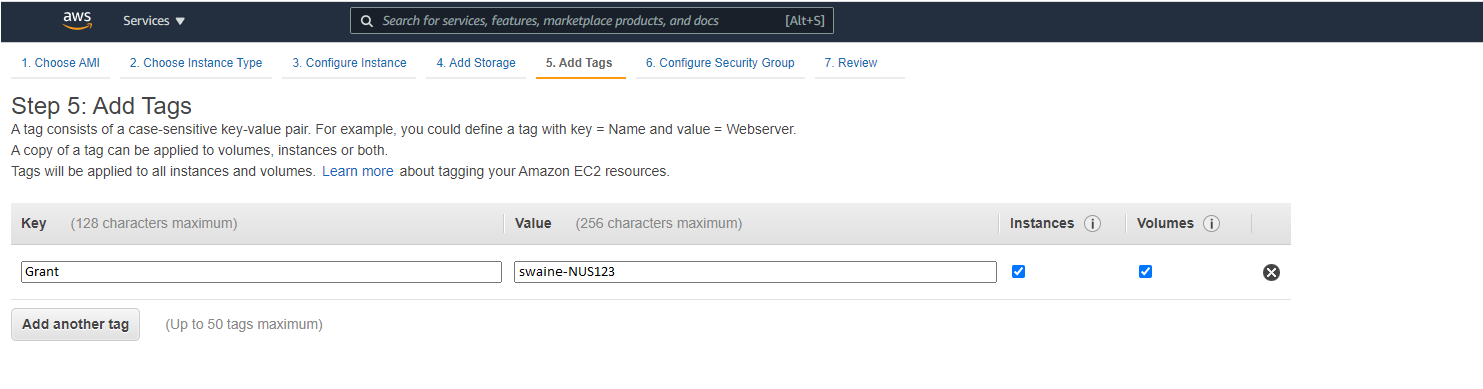
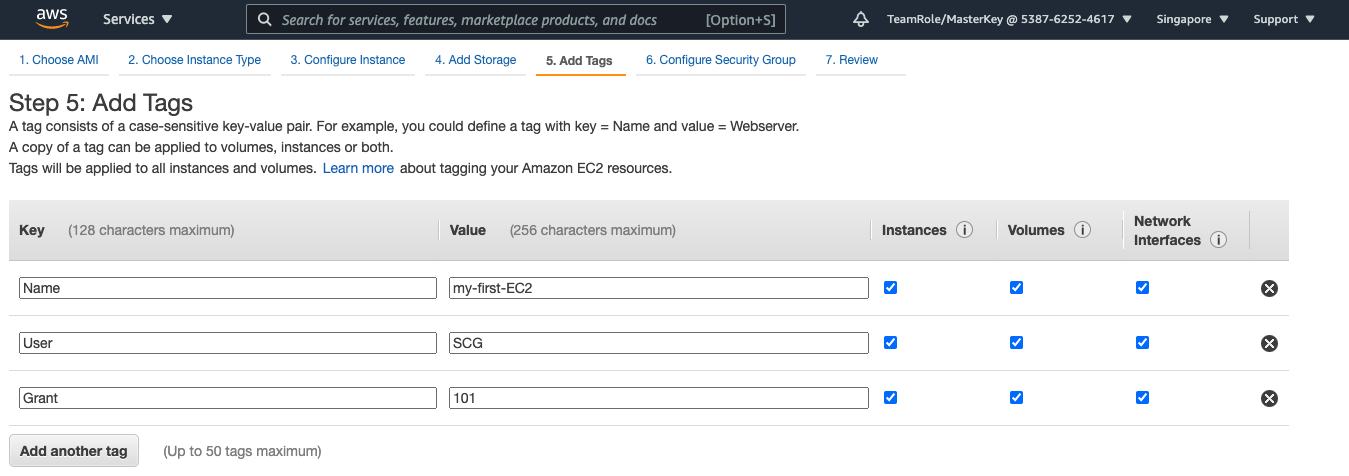
Updates to Sections I and II. Updated some screenshots referring to tagging, cleaned up instructions, and clarified where necessary. Fixed regions.

diff --git a/websites/gis-aws/content/02-setup-EC2/06-LaunchEC2Instance.md b/websites/gis-aws/content/02-setup-EC2/06-LaunchEC2Instance.md
@@ -7,50 +7,49 @@ tags = ["tutorial", "cloud9", "aws cli", "s3"]
 We will now launch an EC2 Linux based instance.
 
 
-1.	Sign into the AWS Management Console and open the Amazon EC2 console at https://console.aws.amazon.com/ec2
+1.	Return to the AWS Management Console and open the Amazon EC2 Dashboard.
 
-2.	In the upper-right corner of the AWS Management Console, confirm you are in the desired AWS region **(e.g., N. Virginia)**.
+2.	In the upper-right corner of the AWS Management Console, confirm you are in the desired AWS region **(e.g., Singapore)**.
 
 ![EC2LaunchInstance](/images/hpc-aws-parallelcluster-workshop/ConsoleRegion.png)
 
 
-3.	Click on  **Launch instance** and further choose and click **Launch instance**
+3.	Click **Launch instance**, then click **Launch instance** again from the drop down menu.
 
 ![EC2LaunchInstance](/images/hpc-aws-parallelcluster-workshop/EC2LaunchInstance.png)
 
-4.	Next in the **Step 1** page, select the first **Amazon Linux 2 AMI(HVM), SSD Volume Type** and further check **64-bit (x86)** under the **Select** button and click on the **Select**. 
+4.	Next in the **Step 1** page, select the first **Amazon Linux 2 AMI(HVM), SSD Volume Type** and check **64-bit (x86)** under the **Select** button and click on the **Select**. 
 
 **NOTE**: that the ami-xxxxxxxxx label and specific versions of the installed package may be different than in the image below.
 
 ![EC2SelectAMI](/images/hpc-aws-parallelcluster-workshop/EC2SelectAMI.png)
 
-5.	In the **Step 2** page, choose an Instance type, select the **t3a.medium** instance from the list and click **Next: Configure Instance Details**.
+5.	In the **Step 2** page, choose an Instance type, select the **c5.2xlarge** instance from the list and click **Next: Configure Instance Details**.
 
 ![EC2ChooseInstancetype](/images/hpc-aws-parallelcluster-workshop/EC2ChooseInstanceType.png)
 
-6.	On **Step 3** page, Configure Instance Details - leave the default settings, One aspect to note here is the **Subnet** field that can be configured to launch the instance in a specific **Availability Zone**. Click on **Next: Add Storage** button at the bottom right corner . [Learn More](https://docs.aws.amazon.com/AWSEC2/latest/UserGuide/configuring-instance-metadata-service.html)
+6.	On **Step 3** page, Configure Instance Details - leave the default settings. Note that the **Subnet** field can be configured to launch the instance in a specific **Availability Zone**; while we're keeping the default for this workshop, this gives you control over the location of your machine. Click the **Next: Add Storage** button in the bottom right corner. [Learn More](https://docs.aws.amazon.com/AWSEC2/latest/UserGuide/configuring-instance-metadata-service.html)
 
 ![EC2ChooseInstancetype](/images/hpc-aws-parallelcluster-workshop/EC2StepConfigureInstance.png)
 
 
-7.	On **Step 4** page you have the ability to modify or add storage and disk drives to the instance. For this lab, we will simply accept the storage defaults and click **Next: Add Tags**.
+7.	On the **Step 4** page, you have the ability to modify or add storage and disk drives to the instance. For this lab, we will simply accept the storage defaults. Take note that the default setting for **Delete on Termination** is affirmative. This indicates that if the machine is terminated, the root volume associated with the Instance will be deleted. You need to uncheck this if you plan to store data on the root volume which you would want to access later. Next, click **Next: Add Tags**.
 
-**NOTE**: Take notice of the default selection of the **Delete on Termination** box checked - this indicates that if the machine is terminated the Root Volume associated with the Instance will be deleted, you need to uncheck this if you plan to store data on the root volume which you would want to access later.
 
 ![EC2ChooseInstancetype](/images/hpc-aws-parallelcluster-workshop/EC2AddStorage.png)
 
 
-8.	On **Step 5** page, you can choose a friendly name for your instance by clicking "Add Tag", and entering "[your initials]-training" for the Key part and "[Your initials]-linux-machine" for the Value part. This Name key, more correctly known as a tag, will appear in the console once the instance launches. It makes it easy to keep track of running machines in a complex environment. Click **Next: Configure Security Group**
+8.	On **Step 5** page, you can choose a friendly name for your instance by clicking "Add Tag", and entering "Name" for the key, and "my-first-EC2" for the value. This Name key, more correctly known as a tag, will appear in the console once the instance launches. It makes it easy to keep track of running machines in a complex environment. Create additional tags similar for the ones you used for the key pair previously- give a user and grant key to this machine, and enter the same values. When ready, click **Next: Configure Security Group**.
 
-![EC2AddTags](/images/hpc-aws-parallelcluster-workshop/EC2AddTags-2.png)
+![EC2AddTags](/images/hpc-aws-parallelcluster-workshop/EC2AddTags-3.png)
 
 9.	On **Step 6** page, you will be prompted to create a new security group, which will be your firewall rules. Provide a name for your new security group.
 
-**NOTE** for the purpose of this lab use your "[Your initials]-sec-group" for uniqueness and easy searchability.
+**NOTE** for the purpose of this lab use your "[Your initials]-sec-group".
 
 ![EC2ConfigSecGroups](/images/hpc-aws-parallelcluster-workshop/EC2ConfigSecGroups.png)
 
-10.	Confirm an existing SSH rule exists which allows TCP port 22. To accept connections from Anywhere select the drop-down box under the **Source** column and select **Anywhere** which will corrospond to **0.0.0.0/0, ::/0**. 
+10.	Confirm an existing SSH rule exists which allows TCP port 22. To accept connections from Anywhere select the drop-down box under the **Source** column and select **Anywhere** which will correspond to **0.0.0.0/0, ::/0**. 
 
 
 ![EC2ConfigSecGroups](/images/hpc-aws-parallelcluster-workshop/EC2ConfigureSecGroupInbound.png)
@@ -64,9 +63,9 @@ We will now launch an EC2 Linux based instance.
 ![EC2ConfigSecGroups](/images/hpc-aws-parallelcluster-workshop/EC2SelectKeypair.png)
 
 
-Your instance will now be starting, which may take a moment. You will be shown the **Launch Status** page with the message that your **instances are now launching**
+Your instance will now start, which may take a moment. You will be shown the **Launch Status** page with the message that your **instances are now launching**
 
 
-14.	On the lower right of the page click on **View Instances** to view the list of EC2 instances.  The instance will go through an initialization process. Once your instance has launched, you will see your Linux server as well as the Availability Zone the instance is in, and the publicly routable DNS name.
+14.	On the lower right of the page click on **View Instances** to view the list of EC2 instances. Click on your instance. It will go through an initialization process. Once your instance has launched, you will see your Linux server as well as the Availability Zone the instance is in, and the publicly routable DNS name.
 
 ![EC2ViewInstances](/images/hpc-aws-parallelcluster-workshop/EC2ViewInstances.png)

diff --git a/websites/gis-aws/content/02-setup-EC2/05-Create_keypair.md b/websites/gis-aws/content/02-setup-EC2/05-Create_keypair.md
@@ -9,7 +9,7 @@ In this section of the lab you will create a Linux instance and login to it to r
 1.	Sign into the AWS Management Console and open the Amazon EC2 console at 
 [https://console.aws.amazon.com/ec2](https://console.aws.amazon.com/ec2)
 
-2.	In the upper-right corner of the AWS Management Console, confirm you are in the desired AWS region **(e.g., N. Virginia)**.
+2.	In the upper-right corner of the AWS Management Console, confirm you are in the desired AWS region **(e.g., Singapore)**.
 
 ![ConsoleEC2KeyPair](/images/hpc-aws-parallelcluster-workshop/ConsoleRegion.png)
 
@@ -22,14 +22,19 @@ In this section of the lab you will create a Linux instance and login to it to r
 
 ![ConsoleEC2CreateKeyPair](/images/hpc-aws-parallelcluster-workshop/EC2CreateKeyPair.png)
 
-5.	In the resulting pop up window, provide a key pair name of your choosing and select **.ppk** or **.pem** depending on which ssh client you will use to connect to the EC2 Instance (for Putty select **.ppk** .For  Windows Subsystem Linux, MacOS-X ssh Client, Linux ssh client,  Windows ssh client select **.pem**) and click on **Create key pair**  
+5.	In the resulting pop up window, provide a key pair name of your choosing and select **.ppk** or **.pem** depending on which ssh client you will use to connect to the EC2 Instance (for Putty select **.ppk** .For  Windows Subsystem Linux, MacOS-X ssh Client, Linux ssh client,  Windows ssh client select **.pem**).  
 
 
-**NOTE**: For the purpose of this workshop please provide a unique key pair name, so that it might not clash with key pair names provided by other participants using the same AWS account. You could use your [name initials] in the key pair for uniqueness easy identification.
+**NOTE**: For the purpose of this workshop please provide a unique key pair name, so that it might not clash with key pair names provided by other participants using the same AWS account. You could use your name initials in the key pair for easy identification.
 
 
 ![ConsoleEC2CreateKeyPairDialog](/images/hpc-aws-parallelcluster-workshop/EC2CreateKeyPairDialog.png)
 
-6.	The key pair you created should automatically download to your system.  Follow any browser instructions to save the file to the default download location.  Verify that the file has downloaded and you can locate it. Remember the full path to this .ppk/pem file you just downloaded. This file contains your private key for future SSH connections. 
-
-7.	You will see a message appear at the top of the screen that says **Successfully created key pair**.  You will see the key pair you created listed.
+6.  Click **add tag**. We'll get into this later, but tagging is an efficient way to track your resources in AWS. We'll add two tags to this resource- the user (enter your initials) and an imaginary grant (enter a number, but be consistent). Click on **Create key pair**.  
+  
+  
+![ConsoleEC2AddTags](/images/hpc-aws-parallelcluster-workshop/ConsoleEC2AddTags.png)
+  
+7.	The key pair you created should automatically download to your system.  Follow any browser instructions to save the file to the default download location.  Verify that the file has downloaded and you can locate it. Remember the full path to this .ppk/pem file you just downloaded. This file contains your private key for future SSH connections. 
+  
+8.	You will see a message appear at the top of the screen that says **Successfully created key pair**.  You will see the key pair you created listed.

diff --git a/websites/gis-aws/content/02-setup-EC2/09-StopTerminateInstance.md b/websites/gis-aws/content/02-setup-EC2/09-StopTerminateInstance.md
@@ -4,15 +4,15 @@ weight = 90
 tags = ["tutorial", "cloud9", "s3"]
 +++
 
-Now let us stop and terminate the instance
+Now let us stop and terminate the instance- **before following these steps, listen to your instructor**. For educational purposes, they may ask you to review the steps, but not actually terminate the instance.
 
-1.	Login to the AWS console, in the AWS Managament Console search bar, type "EC2".
+1.	Return to the AWS console. In the AWS Managament Console search bar, type "EC2", or click the **EC2 Dashboard** item in the left-hand menu.
 
 2.	Choose **EC2** to open the **EC2 Dashboard**.
 
-3.	Click on **Instances** under the **Instances** section in the left Navigation pane to view all the instances that are Running, Stopped and Terminated.
+3.	Click on **Instances** under the **Instances** section in the left navigation pane to view all the instances that are Running, Stopped and Terminated.
 
-4.	Select the instance created and click on **Actions** button and further choose and click on **Instance State** and futher choose and click on **Stop instance**
+4.	Select the instance created and click on **Actions** button and click on **Instance State**, then **Stop instance**.
 
 
 ![AWS Management Console](/images/hpc-aws-parallelcluster-workshop/EC2StopInstance.png)
@@ -21,21 +21,21 @@ Now let us stop and terminate the instance
 
 ![AWS Management Console](/images/hpc-aws-parallelcluster-workshop/EC2StopConfirm.png)
 
-The instance will now attempt to stop, wait for a few moments for the instance to stop, until **Instance State** column shows **Stopped**
+The instance will now attempt to stop, wait for a few moments for the instance to stop, until **Instance State** column shows **Stopped**.
 
 We will now terminate the EC2 instance.
 
-6.	Select the EC2 instance from the list of instances. Click on **Actions** and choose and click on **Instance State** and further choose and click on **Terminate instance**
+6.	Select the EC2 instance from the list of instances. Click on **Actions**, then **Instance State**, and then click on **Terminate instance**.
 
 ![AWS Management Console](/images/hpc-aws-parallelcluster-workshop/EC2InstanceTerminate.png)
 
 
-7.	On the Terminate Instance dialog, observe the note **Associated resources may incur costs after these instances are terminated** and further clickon the **Delete EBS volume** to read the additional note. To proceed  select **Terminate**.
+7.	In the Terminate Instance dialog, observe the note **Associated resources may incur costs after these instances are terminated** and further click **Delete EBS volume** to read the additional note. To proceed, select **Terminate**.
 
 
 ![AWS Management Console](/images/hpc-aws-parallelcluster-workshop/EC2InstanceTerminateConfirm.png)
 
 The instance will now be terminated.
 
-8.	After a minute, view the **Instance State** of the instance which will show **Terminated**
+8.	After a minute, the **Instance State** of the instance which will now show **Terminated**.
 

diff --git a/websites/gis-aws/content/02-setup-EC2/02-eventengine.md b/websites/gis-aws/content/02-setup-EC2/02-eventengine.md
@@ -1,0 +1,27 @@
++++
+title = "a. Sign in to Event Engine"
+date = 2021-05-18T10:46:30-04:00
+draft = false
+weight = 45 
+tags = ["tutorial", "aws console", "ec2", "event engine"]
++++
+
+Depending on your workshop, you may access the AWS Management Console through Event Engine or through a traditional sign-in. This page will guide you through signing in via the Event Engine.  
+  
+Your instructor will provide you with a special team hash login, and an AWS Account ID. 
+Click the team hash login link. An email address will be requested for an OTP. This will help you access your temporary AWS account. When your sign in is successful, you will be taken to the **Team Dashboard**. 
+  
+![EE Team Dashboard](/images/hpc-aws-parallelcluster-workshop/EE_Dashboard.png)  
+    
+Next, click on the **AWS Console** button.  
+
+This page is quite important.  
+  
+First, note the region that is specified in red. This will be the location of all your resources, and is the default region for this exercise.  
+  
+Next, note the credentials seen in the box titled **Credentials / CLI Snippets**. This will be important later when configuring your machine. Depending on your OS, click the correct tab and note the contents. 
+  
+![EE console](/images/hpc-aws-parallelcluster-workshop/EE_console_login.png)  
+If you ever need to access the **Team Dashboard** again during this training, click on the team hash login link again.  
+   
+When ready, click **Open AWS Console**, and proceed to tutorial step ***c. Launch the EC2 Dashboard***. 

diff --git a/websites/gis-aws/content/02-setup-EC2/03-aws-console-login.md b/websites/gis-aws/content/02-setup-EC2/03-aws-console-login.md
@@ -6,7 +6,7 @@ weight = 50
 tags = ["tutorial", "aws console", "ec2"]
 +++
 
-Depending on your workshop, you may access the AWS Management Console through direct sign-in ([here](https://signin.aws.amazon.com/console)) or as directed by your trainer. To sign in, enter your AWS Account ID or alias, IAM user name, and password that was provided to you for this lab.
+Depending on your workshop, you may access the AWS Management Console through direct sign-in ([here](https://signin.aws.amazon.com/console)) or in an alternative method, as directed by your trainer. To sign in via console, enter your AWS Account ID or alias, IAM user name, and password that was provided to you for this lab.
 
 ![AWS Management Console](/images/hpc-aws-parallelcluster-workshop/login.png)
 
@@ -20,7 +20,7 @@ After you sign in, take a few minutes to explore the navigation components of th
 
 Start this workshop by selecting an **AWS Region**:
 
-Choose the **Region** drop-down menu, then choose and click on a region to select the region you will deploy all the AWS resources into e.g. **US East (N. Virginia) us-east-1**.
+Choose the **Region** drop-down menu, then choose and click on a region to select the region you will deploy all the AWS resources into e.g. **Asia Pacific (Singapore) ap-southeast-1**.
 
 ![AWS Management Console](/images/hpc-aws-parallelcluster-workshop/aws-console.png)
 

diff --git a/websites/gis-aws/content/02-setup-EC2/07-SSHEC2Instance.md b/websites/gis-aws/content/02-setup-EC2/07-SSHEC2Instance.md
@@ -13,7 +13,7 @@ The operating system of your local computer determines the options that you have
 
 We will now use the private **.ppk** file of the key pair generated earlier to open a SSH session to the EC2 instance.
 
-1.	Start the PuTTy application.
+1.	Start the PuTTY application.
 
 2.	Enter in the IP address of the EC2 instance in the **Host Name (or IP address)** field.
 
@@ -53,13 +53,13 @@ cp /mnt/<Windows drive letter>/path/my-key-pair.pem ~/WSL-path/my-key-pair.pem
 
 2.	In a terminal window, use the ssh command to connect to the instance. You specify the path and file name of the private key (.pem), the user name for your instance, and the public DNS name or IP Address.
 
-**NOTE**: Username to be used here is **ec2-user**
+**NOTE**: Username to be used here is **ec2-user**.
 
 ```bash
 sudo ssh -i /path/my-key-pair.pem ec2-user@<ip-address>
 ```
 
-you will see the following response
+You will see the following response:
 
 ```bash
 The authenticity of host '<ip-address>'
@@ -99,7 +99,7 @@ Are you sure you want to continue connecting (yes/no)?
 
 You will now be logged into the Instance.
 
-**NOTE**: you might need to change the permissions of the key file by running the chmod commannd as follows
+**NOTE**: you might need to change the permissions of the key file by running the chmod command as follows
 ```bash
 chmod 600 /path/my-key-pair.pem
 ```

diff --git a/websites/gis-aws/content/02-setup-EC2/08-RunCommands.md b/websites/gis-aws/content/02-setup-EC2/08-RunCommands.md
@@ -4,7 +4,7 @@ weight = 90
 tags = ["tutorial", "cloud9", "s3"]
 +++
 
-Let us run a few Linux commands to install a few software packages
+Let us run a few Linux commands to install a few software packages. Enter the following commands, and press **y** and **enter** when necessary. The instance that we've started is completely blank and does not contain any downloaded programs or software. We'll need to build it up from scratch.  
 
 From yum **(nmap)**: just to install a network tool
 
@@ -31,16 +31,17 @@ cd seqtk/
 ```bash
 make
 ```
-If it failed, good! It was supposed to. Now install gcc zlib-devel: 
+Whoops! That command failed. We're still missing something. Now install gcc zlib-devel: 
 ```bash
 yum install gcc zlib-devel
 ```
 ```bash
 make
 ```
-Now the command should be recognized! Try seqtk again:
+Now the command should be recognized! There we go. Try seqtk again:
 ```bash
 ./seqtk
 ```
-
+  
+As you can see, working from an empty instance can be quite troublesome. You'll need to download absolutely everything you need. AWS offers AMIs- Amazon Machine Instances- that can act as templates for pre-built machines. Let's get ready to try that.
 

diff --git a/websites/gis-aws/content/01-hpc-overview/02-Preewquisites.md b/websites/gis-aws/content/01-hpc-overview/02-Preewquisites.md
@@ -11,7 +11,7 @@ The following prerequisites are required for the HPC workshops:
 - A computer with an internet connection running Microsoft Windows, Mac OS X, or Linux.
 - An internet browser such as Chrome, Firefox, Safari, Opera, or Edge.
 - Familiarity with common Linux commands.
-- Familiarity with using an SSH client like Putty/MobaXterm.
+- Familiarity with using an SSH client like PuTTY/MobaXterm.
 
 This workshop includes multiple code samples that you can copy and paste using the button shown below.
 
